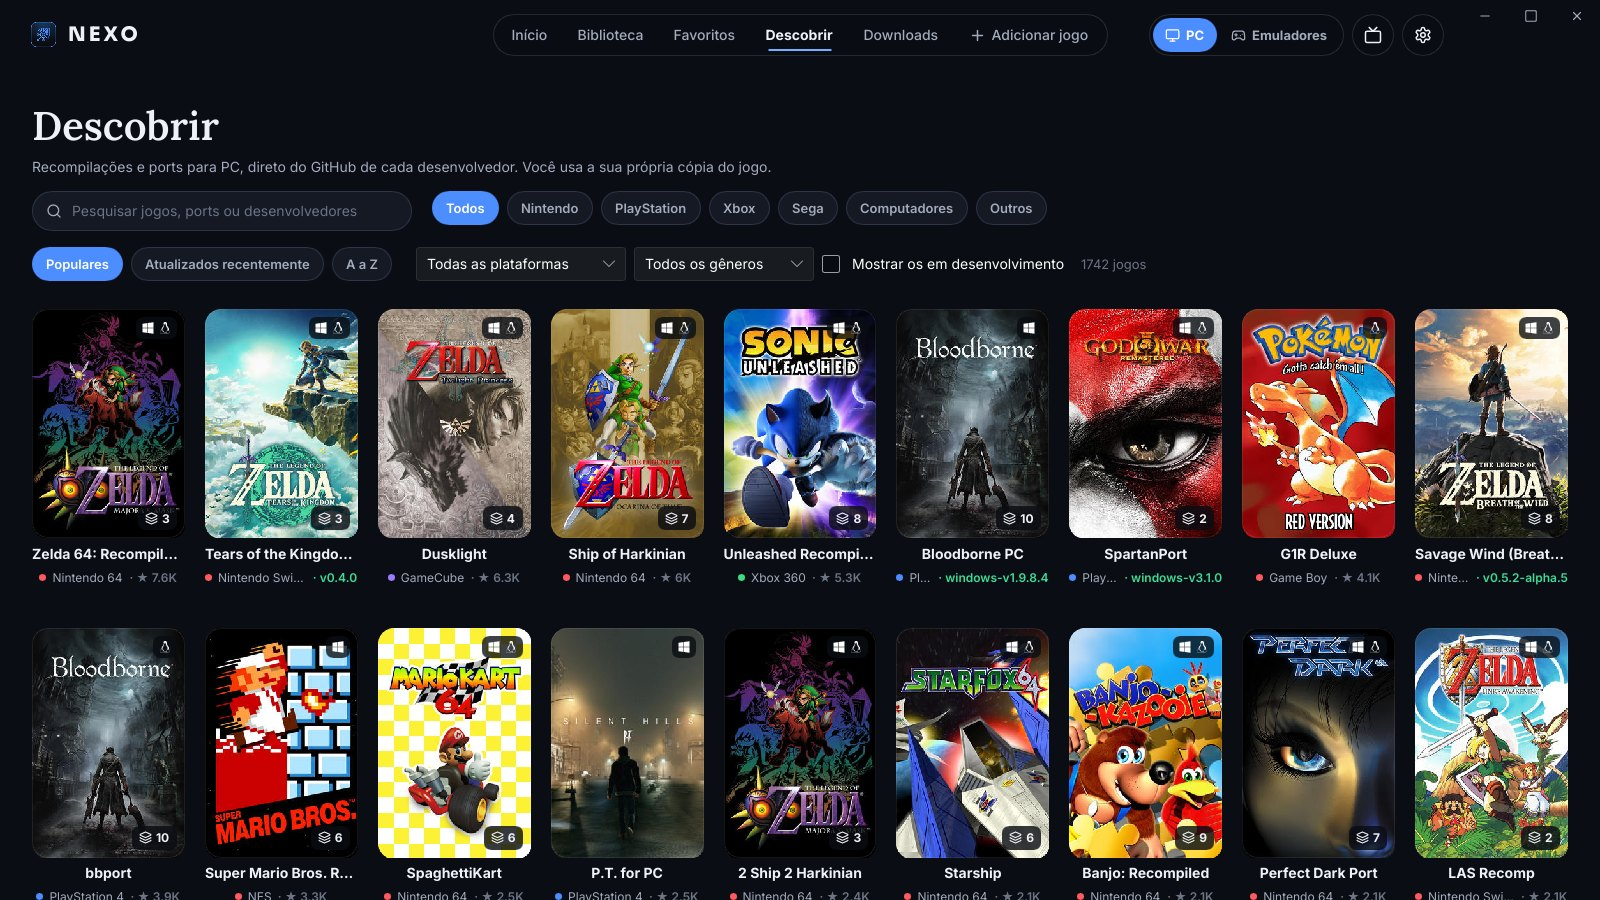
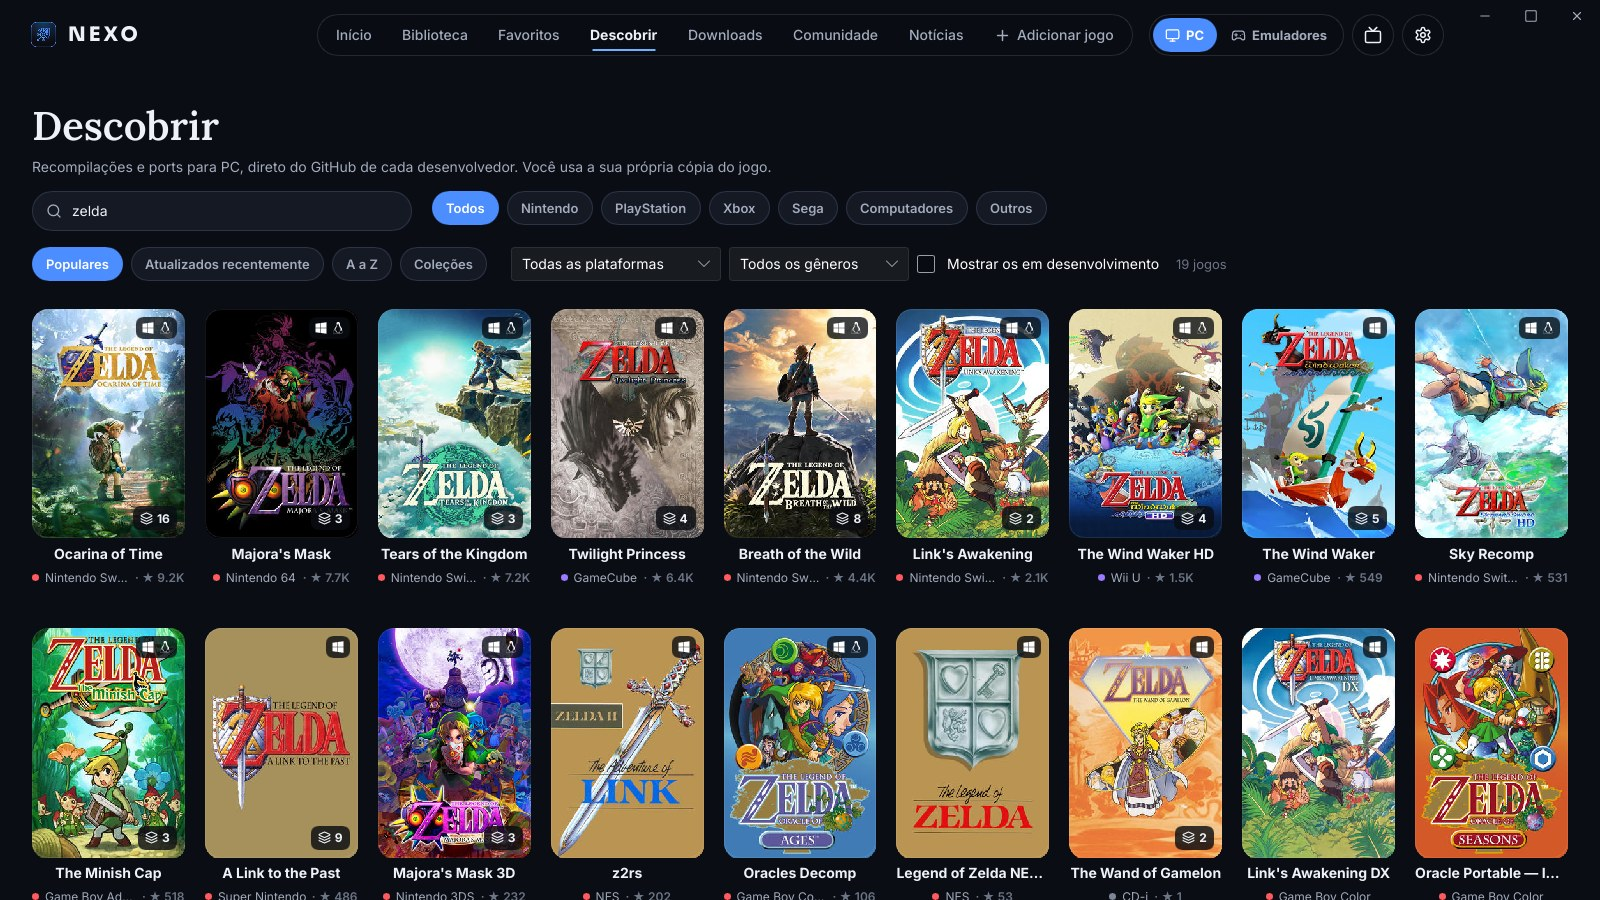
Nexo 1.4.0: um card por jogo e 68 projetos novos

diff --git a/CHANGELOG.md b/CHANGELOG.md
@@ -6,6 +6,51 @@ O Nexo instalado avisa quando sai uma versão nova e só atualiza com o seu OK.
 
 *English summary at the end of each version.*
 
+## [1.4.0] — 15/11/2026
+
+### Novidades
+- **Um card por jogo**: os recomps e ports do mesmo jogo agora ficam juntos no Descobrir e nas
+  fileiras do Início. O Zelda: Ocarina of Time, por exemplo, virou um card só com os seus 16
+  projetos, em vez de vários cards soltos.
+  - O selo no canto da capa diz quantos projetos o jogo tem.
+  - Na página do jogo, a lista **"N projetos de…"** vai do mais recomendado ao menos: primeiro os
+    que têm versão para baixar e mais estrelas no GitHub. Cada linha mostra o console de origem e os
+    sistemas.
+  - Num atalho da Steam de um jogo com vários projetos, o nome vira "Jogo - Projeto".
+- **68 projetos novos no catálogo**, lançados nos últimos 60 dias:
+  - **Switch 2:** Mario Kart World (3 projetos), Pokémon Pokopia, Star Fox, Fire Emblem: Fortune's
+    Weave, Donkey Kong Bananza e mais 5 do Ocarina of Time (NX2navi, Longshot, Project ReLink...).
+  - **Switch:** Super Mario Odyssey, Xenoblade Chronicles 2 e 3, Smash Ultimate, Pokémon Scarlet e
+    Violet, Metroid Prime 4.
+  - **Xbox 360:** GTA V, Ninja Gaiden II, Battlefield 1943, Skate 2, PGR4, Chaves Kart e outros.
+  - **Xbox:** Panzer Dragoon Orta, Red Dead Revolver, Soulcalibur II, The Warriors, Halo 2 (em
+    desenvolvimento).
+  - **PS3:** Demon's Souls, inFAMOUS 2, God of War: Ascension, Resistance 1 e 3.
+  - **PS4:** Gravity Rush 2, Diablo III, Dead Nation, Resogun.
+  - **PS2:** GTA San Andreas, TimeSplitters 2, Haunting Ground, Shadow of Rome, Ratchet & Clank,
+    Crash: The Wrath of Cortex e outros.
+  - E ainda jogos de PS Vita, Pandora's Tower (Wii), Mario Kart Arcade GP, Monster Hunter 3
+    Ultimate (Wii U) e Castlevania: Grimoire of Souls.
+  - Mario Kart World, Pokopia, Super Mario Odyssey e GTA V entram no destaque do Início.
+
+### Melhorias
+- Nomes diferentes do mesmo jogo no catálogo foram unificados (o Ocarina of Time do N64, do 3DS e do
+  Switch 2 ficam juntos, por exemplo).
+- Um projeto que você adicionou à mão e que também está no catálogo herda o jogo, o console e as
+  estrelas de lá, e passa a aparecer junto dos outros projetos do mesmo jogo.
+
+### English
+**One card per game**: recomps and ports of the same game now share a single card in Discover and on
+the Home rows (Zelda: Ocarina of Time is one card with its 16 projects), with a badge showing how
+many projects there are. The game page lists them from most to least recommended (downloadable and
+most-starred first), with each one's source console and systems; Steam shortcuts for games with
+several projects are named "Game - Project". **68 new projects** released in the last 60 days,
+including Mario Kart World, Pokémon Pokopia, Super Mario Odyssey, Xenoblade 2 and 3, GTA V, Ninja
+Gaiden II, Demon's Souls, God of War: Ascension, Gravity Rush 2, TimeSplitters 2 and more; Mario
+Kart World, Pokopia, Super Mario Odyssey and GTA V join the Home carousel. Different spellings of the
+same game were merged, and a project you added by hand that's also in the catalog inherits its game,
+console and stars.
+
 ## [1.3.0] — 13/11/2026
 
 ### Novidades

diff --git a/README.md b/README.md
@@ -49,6 +49,9 @@ Codeberg e outros Forgejo/Gitea, para recomps, ports e emuladores.
 - Dois universos: **PC** (recomps e ports) e **Emuladores**, cada um com Início, Biblioteca,
   Favoritos e Descobrir próprios.
 - Busca, filtros por console, plataforma e gênero, e ordenação por populares, recentes ou A a Z.
+- **Um card por jogo**: os vários recomps e ports do mesmo jogo ficam juntos. Na página do jogo
+  eles aparecem do mais recomendado ao menos (com versão para baixar e mais estrelas primeiro),
+  com o console de origem e os sistemas de cada um.
 - Capas e banners automáticos, do [SteamGridDB](https://www.steamgriddb.com), sem configurar nada; ou os seus.
 - Adicione qualquer projeto pelo link do GitHub, Codeberg ou outro Forgejo/Gitea.
 
@@ -92,6 +95,10 @@ Codeberg e outros Forgejo/Gitea, para recomps, ports e emuladores.
 | ![Descobrir](docs/capturas/descobrir.jpg) | ![Página do jogo](docs/capturas/jogo.jpg) |
 | **Emuladores** | **Downloads** |
 | ![Emuladores](docs/capturas/inicio-emuladores.jpg) | ![Downloads](docs/capturas/downloads.jpg) |
+
+**Todos os projetos de um jogo, do mais recomendado ao menos**
+
+![Projetos de um jogo](docs/capturas/projetos.jpg)
 
 **Modo TV**
 

diff --git a/README.en.md b/README.en.md
@@ -49,6 +49,9 @@ Forgejo/Gitea hosts, for recomps, ports and emulators.
 - Two universes: **PC** (recomps and ports) and **Emulators**, each with its own Home, Library,
   Favorites and Discover.
 - Search, filters by console, platform and genre, sorting by popular, recent or A–Z.
+- **One card per game**: the many recomps and ports of the same game stay together. On the game page
+  they're listed from most to least recommended (downloadable and most-starred first), with each
+  one's source console and systems.
 - Automatic covers and banners from [SteamGridDB](https://www.steamgriddb.com), with no setup; or your own.
 - Add any project from a GitHub, Codeberg or other Forgejo/Gitea link.
 
@@ -93,6 +96,10 @@ Forgejo/Gitea hosts, for recomps, ports and emulators.
 | ![Discover](docs/capturas/descobrir.jpg) | ![Game page](docs/capturas/jogo.jpg) |
 | **Emulators** | **Downloads** |
 | ![Emulators](docs/capturas/inicio-emuladores.jpg) | ![Downloads](docs/capturas/downloads.jpg) |
+
+**Every project for a game, from most to least recommended**
+
+![Projects for a game](docs/capturas/projetos.jpg)
 
 **TV mode**
 
